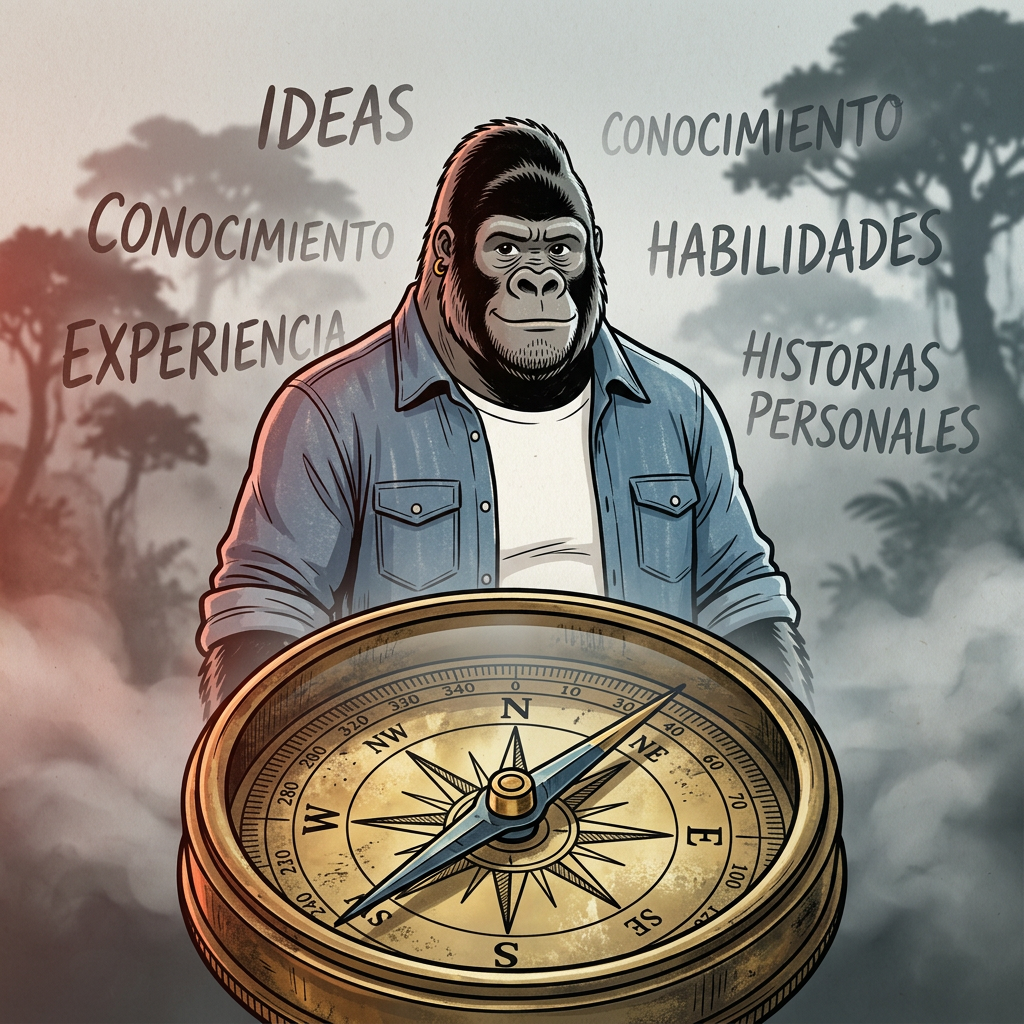
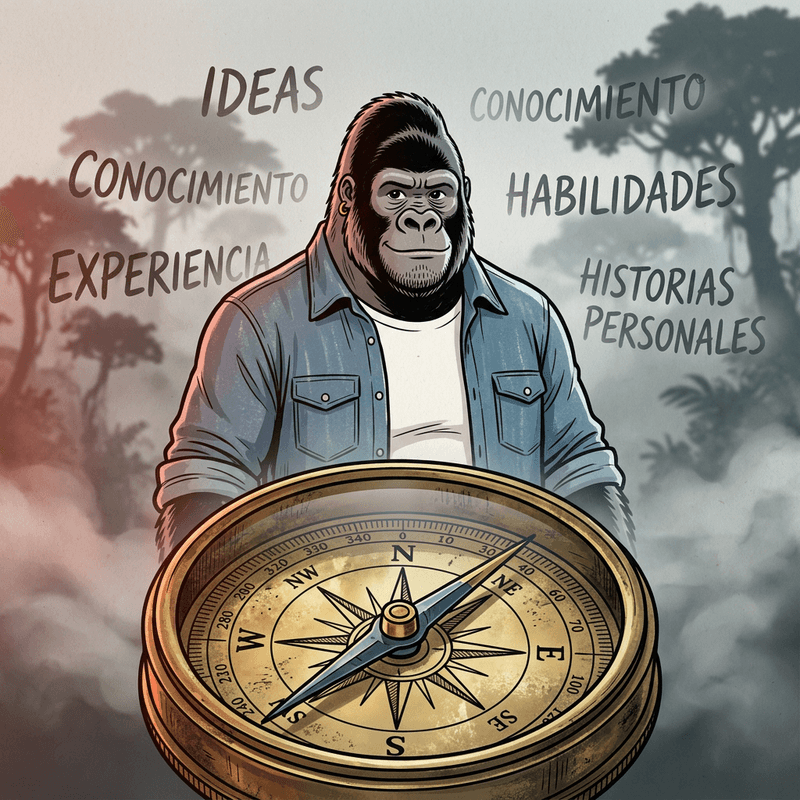
feat(landing): integrate minority-report image + optimize all images
- Add minority-report.png illustration to tools section with dark card
- Compress PNGs from ~1.7MB to ~300KB each
- Generate WebP versions (~95KB) with <picture> fallback
- Restyle Minority Report section: dark bg + image + tag pills

Changed region(s): [[0.4062, 0.75, 0.4688, 0.8125], [0.5625, 0.8125, 0.5938, 0.8438], [0.4688, 0.8438, 0.5, 0.875]]

diff --git a/src/app/page.tsx b/src/app/page.tsx
@@ -68,24 +68,30 @@ export default function Home() {
             </div>
             {/* Mobile hero image */}
             <div className="mt-8 md:hidden flex justify-center">
-              <img
-                src="/gorila-brujula.png"
-                alt="El gorila con la brújula de contenido"
-                className="w-64 sm:w-72 rounded-xl"
-                style={{ filter: "drop-shadow(0 12px 24px rgba(0,0,0,0.1))" }}
-              />
+              <picture>
+                <source srcSet="/gorila-brujula.webp" type="image/webp" />
+                <img
+                  src="/gorila-brujula.png"
+                  alt="El gorila con la brújula de contenido"
+                  className="w-64 sm:w-72 rounded-xl"
+                  style={{ filter: "drop-shadow(0 12px 24px rgba(0,0,0,0.1))" }}
+                />
+              </picture>
             </div>
           </div>
 
           {/* Right: hero image */}
           <div className="relative hidden md:flex items-center justify-center">
             <div className="absolute inset-0 bg-gradient-to-br from-naranja/[0.06] to-transparent rounded-3xl pointer-events-none" />
-            <img
-              src="/gorila-brujula.png"
-              alt="El gorila con la brújula de contenido"
-              className="relative w-full max-w-md rounded-2xl"
-              style={{ filter: "drop-shadow(0 20px 40px rgba(0,0,0,0.1))" }}
-            />
+            <picture>
+              <source srcSet="/gorila-brujula.webp" type="image/webp" />
+              <img
+                src="/gorila-brujula.png"
+                alt="El gorila con la brújula de contenido"
+                className="relative w-full max-w-md rounded-2xl"
+                style={{ filter: "drop-shadow(0 20px 40px rgba(0,0,0,0.1))" }}
+              />
+            </picture>
           </div>
         </div>
       </section>
@@ -233,26 +239,45 @@ export default function Home() {
               </div>
             </div>
 
-            {/* Minority Report + Excel */}
-            <div className="grid md:grid-cols-2 gap-6">
-              <div className="bg-crema rounded-2xl p-7 sm:p-9 border border-borde/40">
+            {/* Minority Report */}
+            <div className="grid md:grid-cols-5 gap-6 items-center">
+              <div className="md:col-span-3 bg-negro rounded-2xl p-7 sm:p-9 overflow-hidden">
                 <div className="flex items-center gap-3 mb-4">
-                  <span className="w-10 h-10 rounded-xl bg-naranja/10 flex items-center justify-center text-xl">🗺</span>
-                  <h3 className="font-heading text-2xl text-negro">Minority Report</h3>
+                  <span className="w-10 h-10 rounded-xl bg-naranja/20 flex items-center justify-center text-xl">🗺</span>
+                  <h3 className="font-heading text-2xl text-white">Minority Report</h3>
                 </div>
-                <p className="text-sm text-muted leading-relaxed">
+                <p className="text-sm text-white/60 leading-relaxed mb-5">
                   Tu mapa estratégico completo: briefing, buyer persona, mapa de empatía, insight, árbol de contenidos y canales. Todo lo que necesitas en una vista. Exporta a Excel profesional con un clic.
                 </p>
-              </div>
-              <div className="bg-crema rounded-2xl p-7 sm:p-9 border border-borde/40">
-                <div className="flex items-center gap-3 mb-4">
-                  <span className="w-10 h-10 rounded-xl bg-naranja/10 flex items-center justify-center text-xl">🧠</span>
-                  <h3 className="font-heading text-2xl text-negro">Basado en tu marca real</h3>
+                <div className="flex flex-wrap gap-2">
+                  <span className="px-3 py-1 rounded-full text-[11px] font-semibold bg-white/[0.08] text-white/70">Buyer persona</span>
+                  <span className="px-3 py-1 rounded-full text-[11px] font-semibold bg-white/[0.08] text-white/70">Insight estratégico</span>
+                  <span className="px-3 py-1 rounded-full text-[11px] font-semibold bg-white/[0.08] text-white/70">Árbol de contenidos</span>
+                  <span className="px-3 py-1 rounded-full text-[11px] font-semibold bg-white/[0.08] text-white/70">Export Excel</span>
                 </div>
-                <p className="text-sm text-muted leading-relaxed">
-                  Nada genérico. La Brújula parte de tu propuesta de valor, tu audiencia concreta y tus pilares de contenido. La IA genera sugerencias alineadas con quien eres — no con lo que está de moda.
-                </p>
               </div>
+              <div className="md:col-span-2 flex items-center justify-center">
+                <picture>
+                  <source srcSet="/minority-report.webp" type="image/webp" />
+                  <img
+                    src="/minority-report.png"
+                    alt="El gorila visualizando datos estratégicos — Minority Report"
+                    className="w-full max-w-xs rounded-2xl"
+                    style={{ filter: "drop-shadow(0 16px 32px rgba(0,0,0,0.12))" }}
+                  />
+                </picture>
+              </div>
+            </div>
+
+            {/* Basado en tu marca real */}
+            <div className="bg-crema rounded-2xl p-7 sm:p-9 border border-borde/40">
+              <div className="flex items-center gap-3 mb-4">
+                <span className="w-10 h-10 rounded-xl bg-naranja/10 flex items-center justify-center text-xl">🧠</span>
+                <h3 className="font-heading text-2xl text-negro">Basado en tu marca real</h3>
+              </div>
+              <p className="text-sm text-muted leading-relaxed max-w-2xl">
+                Nada genérico. La Brújula parte de tu propuesta de valor, tu audiencia concreta y tus pilares de contenido. La IA genera sugerencias alineadas con quien eres — no con lo que está de moda.
+              </p>
             </div>
           </div>
         </div>
